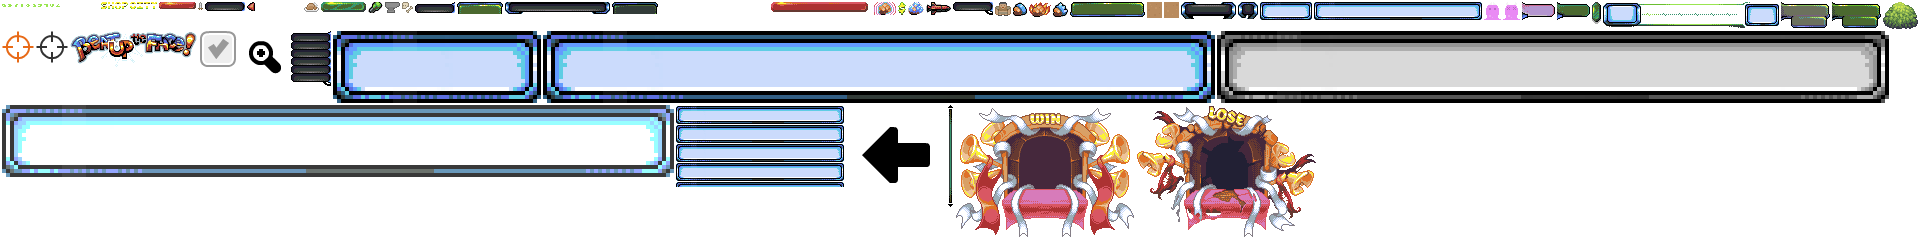
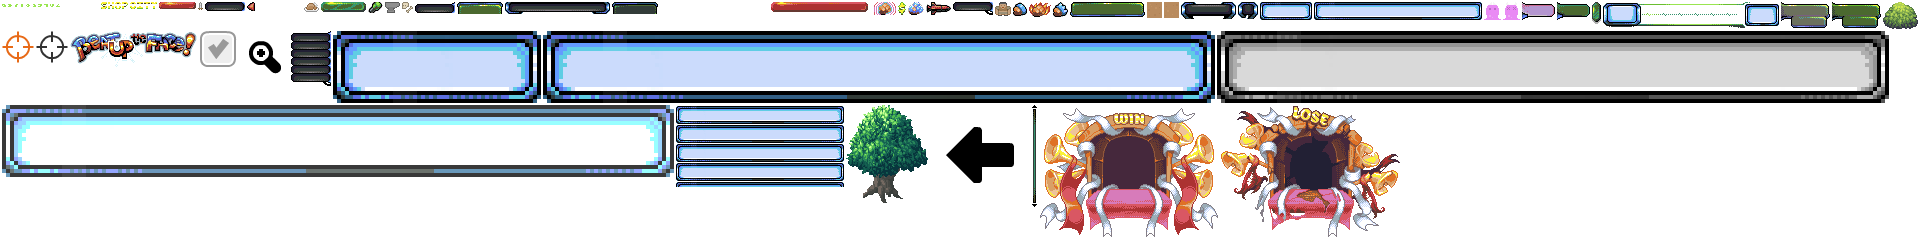
tree harvestable for the Forest

Changed region(s): [[0.4375, 0.4339, 0.75, 0.9545]]

diff --git a/Classes/HarvestScene.cpp b/Classes/HarvestScene.cpp
@@ -730,6 +730,8 @@ void HarvestScene::add_harvestable()
 
     if (BUILDUP->get_target_building()->name == "The Mine") {
         harvestable = MiningHarvestable::create();
+    } else if (BUILDUP->get_target_building()->name == "The Forest") {
+        harvestable = TreeHarvestable::create();
     } else if (BUILDUP->get_target_building()->name == "The Workshop") {
         this->target_recipe = BUILDUP->city->building_by_name("The Farm")->data->get_recipe("loaf_recipe");
         harvestable = CraftingHarvestable::create(this->target_recipe);

diff --git a/Classes/Harvestable.cpp b/Classes/Harvestable.cpp
@@ -287,6 +287,21 @@ std::string GraveyardHarvestable::get_sprite_path()
     return "bones.png";
 };
 
+bool TreeHarvestable::init()
+{
+    bool val = Harvestable::init();
+
+    this->initial_scale = 1.0f;
+    this->setScale(this->initial_scale);
+
+    return val;
+}
+
+std::string TreeHarvestable::get_sprite_path()
+{
+    return "tree.png";
+}
+
 void MiningHarvestable::init_sprite()
 {
 

diff --git a/Classes/Harvestable.h b/Classes/Harvestable.h
@@ -66,6 +66,14 @@ class GraveyardHarvestable : public Harvestable
         std::string get_sprite_path();
 };
 
+class TreeHarvestable : public Harvestable
+{
+    public:
+        CREATE_FUNC(TreeHarvestable);
+        bool init();
+        std::string get_sprite_path();
+};
+
 class MiningHarvestable : public Harvestable
 {
     public:
